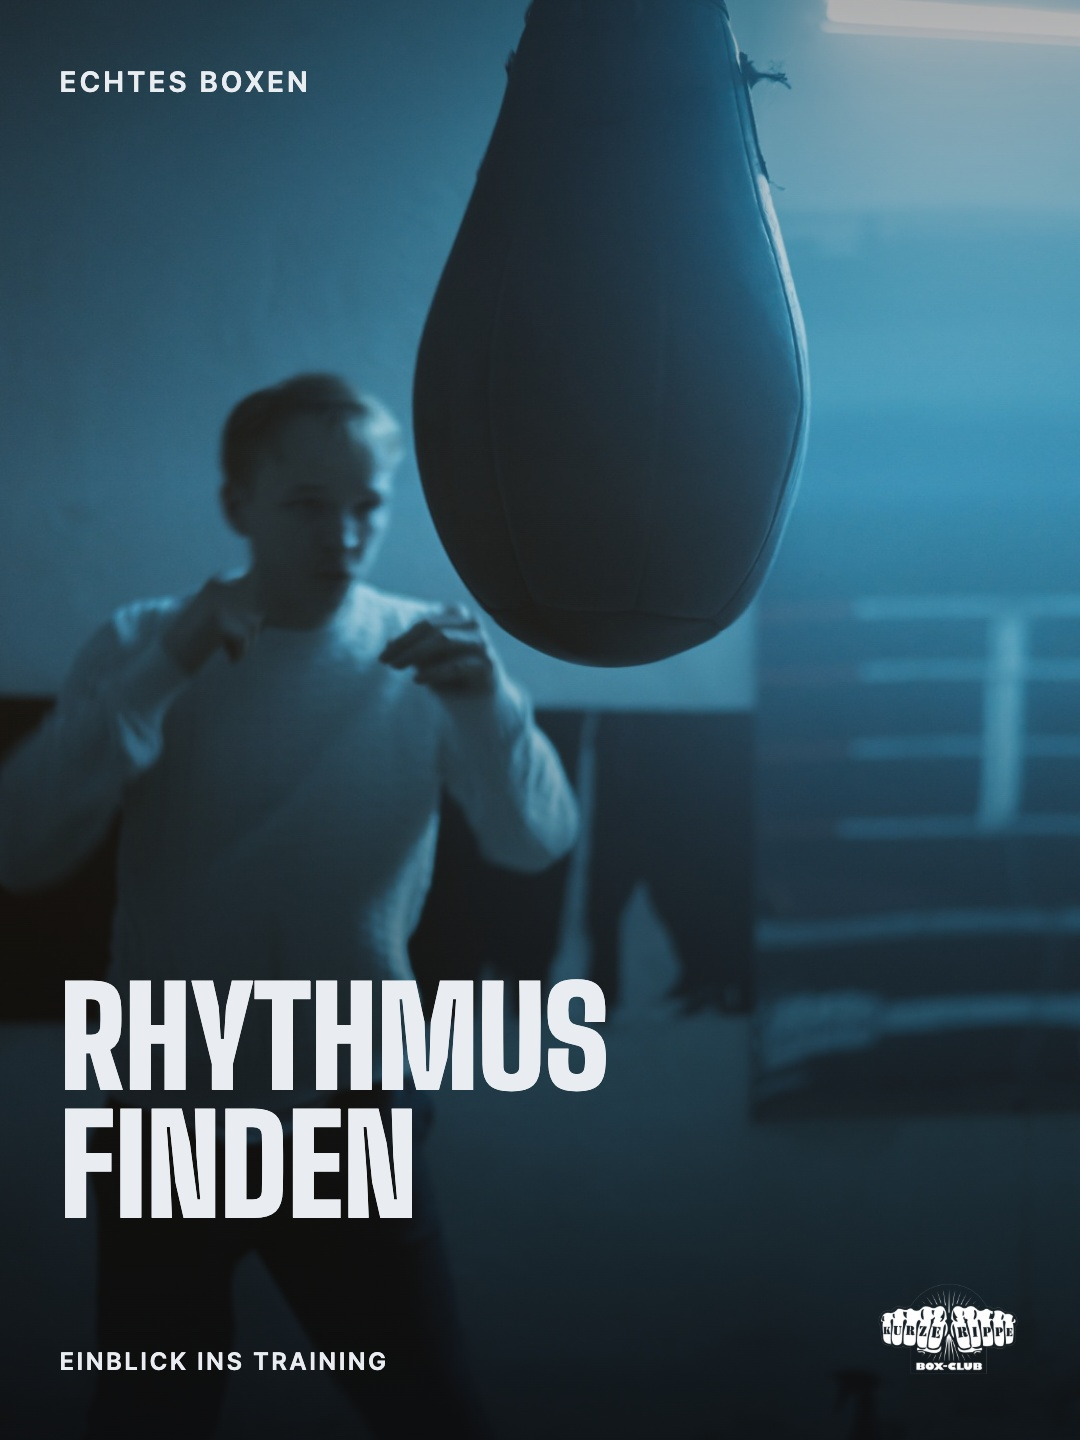
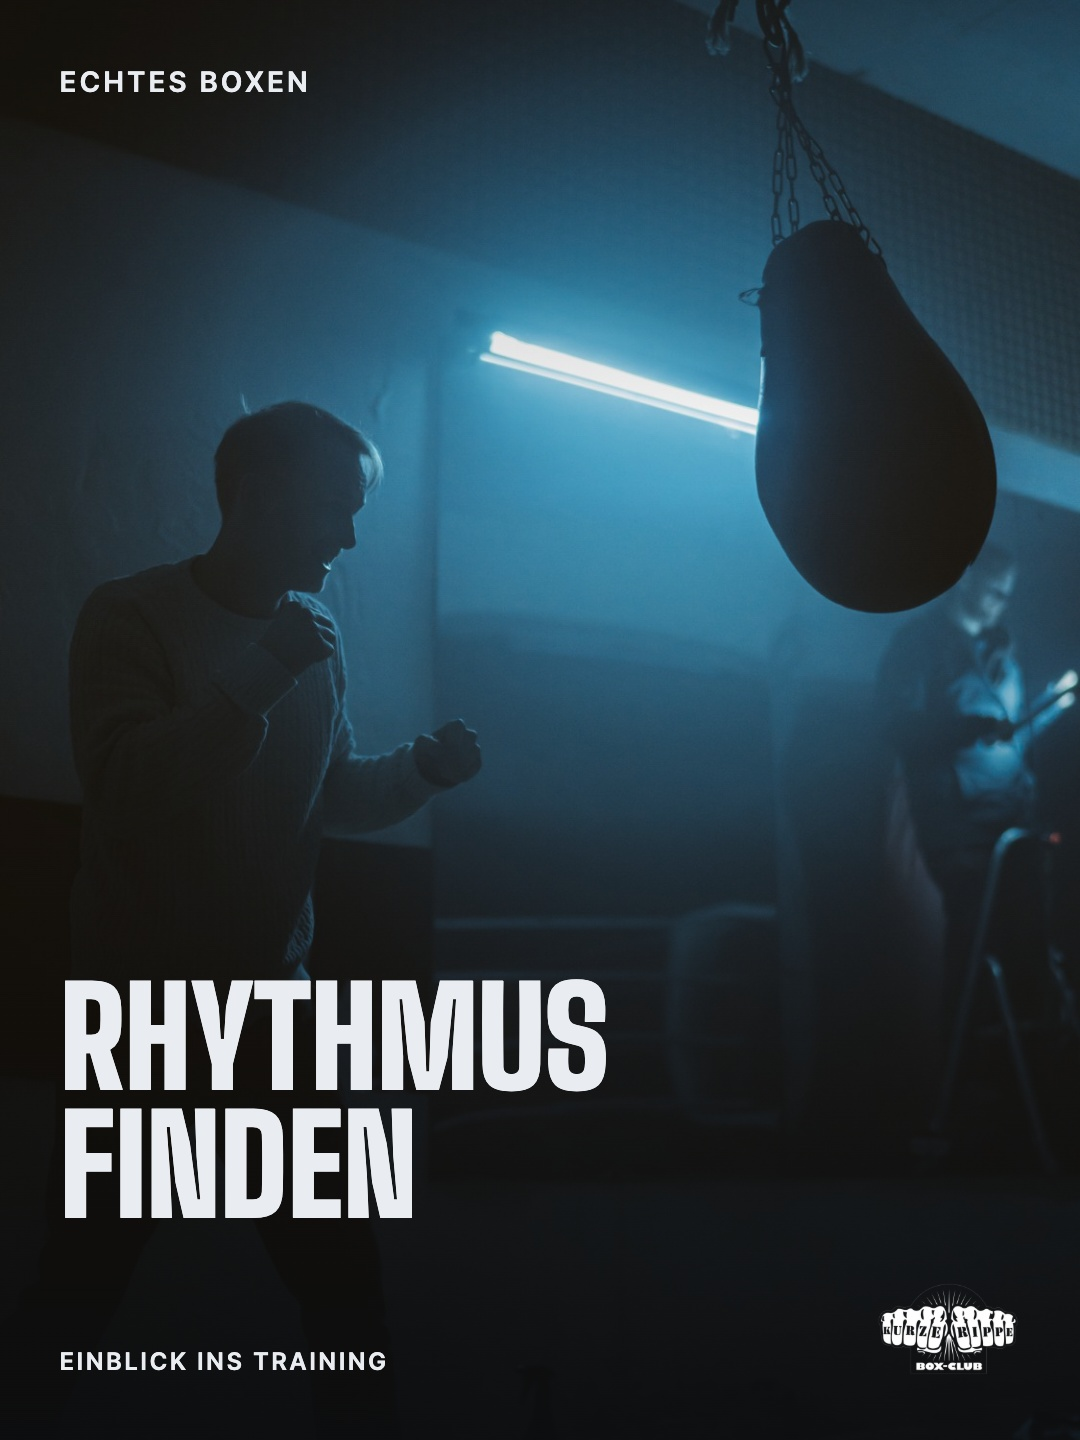
kurze-rippe: Grid-Bildauswahl mit Rot und Umkleide

diff --git a/kurze-rippe/arbeit/instagram-grid-v1/grid.html b/kurze-rippe/arbeit/instagram-grid-v1/grid.html
@@ -2,7 +2,7 @@
 <html lang="de">
 <head>
 <meta charset="utf-8">
-<title>Kurze Rippe · Instagram Grid · Entwurf 01</title>
+<title>Kurze Rippe · Instagram Grid · Entwurf 02</title>
 <style>
 @font-face{font-family:Stencil;src:url('assets/fonts/stencil0.ttf');font-weight:900}
 @font-face{font-family:Display;src:url('assets/fonts/display0.ttf');font-weight:900}
@@ -25,11 +25,11 @@ body{font-family:Inter,Arial,sans-serif}
 .entry .headline{top:152px;font-size:125px;line-height:.94}
 .entry .subline{position:absolute;left:32px;bottom:115px;font-size:23px;line-height:1.35}
 .detail .photo{object-position:53% center}.detail .small-title{bottom:107px}
-.technique .photo{object-position:center 29%}.technique .headline{font-size:104px}
+.technique .photo{object-position:center 45%}.technique .headline{font-size:104px}
 .brand .headline{top:147px;font-size:125px;line-height:.96;color:var(--light);white-space:nowrap}
 .brand .brand-word{position:absolute;left:32px;bottom:107px;margin:0;font:900 46px/.9 Display,sans-serif;letter-spacing:1px}
-.training .photo{object-position:51% center}.training .small-title{font-size:68px}
-.gym .photo{object-position:49% center}.gym .headline{font-size:102px}
+.training .photo{object-position:46% center}.training .small-title{font-size:68px}
+.gym .photo{object-position:50% center}.gym .headline{font-size:102px}
 .ring .photo{object-position:50% center}.ring .headline{top:108px;bottom:auto;font-size:108px}
 .relaunch .headline{top:155px;font-size:114px;line-height:.95}
 .relaunch .foot{font-size:16px;line-height:1.6;letter-spacing:1px}
@@ -56,7 +56,7 @@ body{font-family:Inter,Arial,sans-serif}
   <div class="foot">Ein Blick ins Detail</div><img class="corner" src="assets/logo.png" alt="Kurze Rippe">
  </article>
  <article class="post technique" data-id="04-boxen">
-  <img class="photo" src="assets/KR-146.jpg" alt="Boxer mit erhobenen Händen im Ring"><div class="shade"></div>
+  <img class="photo" src="assets/KR-135.jpg" alt="Boxer mit Handschuhen im rot beleuchteten Ring"><div class="shade"></div>
   <div class="eyebrow">Echtes Boxen</div><h2 class="headline bottom">Deckung<br>hoch</h2>
   <div class="foot">Technik im Fokus</div><img class="corner" src="assets/logo.png" alt="Kurze Rippe">
  </article>
@@ -66,12 +66,12 @@ body{font-family:Inter,Arial,sans-serif}
   <div class="foot">Boxen verbindet</div><img class="corner" src="assets/logo.png" alt="Kurze Rippe">
  </article>
  <article class="post training" data-id="06-training">
-  <img class="photo" src="assets/KR-231.jpg" alt="Training an der Boxbirne"><div class="shade"></div>
+  <img class="photo" src="assets/KR-256.jpg" alt="Training an der Boxbirne im blauen Licht"><div class="shade"></div>
   <div class="eyebrow">Echtes Boxen</div><h2 class="small-title">Rhythmus<br>finden</h2>
   <div class="foot">Einblick ins Training</div><img class="corner" src="assets/logo.png" alt="Kurze Rippe">
  </article>
  <article class="post gym" data-id="07-club">
-  <img class="photo" src="assets/KR-1.jpg" alt="Blick in den Boxclub"><div class="shade"></div>
+  <img class="photo" src="assets/KR-6.jpg" alt="Blick in die Umkleide mit Spinden und Sitzbank"><div class="shade"></div>
   <div class="eyebrow">Kult &amp; Old School</div><h2 class="headline bottom">Boxen<br>in Köln</h2>
   <div class="foot">Zu Hause im Gym</div><img class="corner" src="assets/logo.png" alt="Kurze Rippe">
  </article>

diff --git a/kurze-rippe/HANDOFF.md b/kurze-rippe/HANDOFF.md
@@ -1,8 +1,10 @@
 # HANDOFF: Kurze Rippe
 
-Zuletzt aktualisiert: 2026-11-23 (Instagram-Grid als zusätzliche Folie) von Codex.
+Zuletzt aktualisiert: 2026-11-23 (Instagram-Grid mit neuer Bildauswahl) von Codex.
 
 ## Stand
+
+- [x] 23.11. Grid Entwurf 02: Auf Marcs Wunsch drei Motive ausgetauscht. Deckung hoch → rotes Ringfoto KR-135, Rhythmus finden → KR-256, Boxen in Köln → Umkleide KR-6. Folie 6, Gesamtansicht, Einzelmotive und Vorlagen aktualisiert. Typografie und übriges Raster bleiben erhalten.
 
 - [x] 23.11. Instagram-Grid Entwurf 01 aus Marcs Lightroom-Ordner: 343 Dateien gesichtet, sechs Motive ausgewählt, 3×3-Raster mit sechs Foto- und drei Typografie-Posts gestaltet. Website-Schriften und Blau übernommen. Als neue Folie 6 nach den Säulen ergänzt, Präsentation jetzt 15 Folien. Quellen, Einzelmotive und Vorschauen → `arbeit/instagram-grid-v1/`.
 - [ ] Marc prüft den Grid-Look. Aktuelle Trainerporträts, Aussagen und konkrete Informationsbeiträge brauchen weiterhin gezielte neue Aufnahmen und bestätigte Fakten.

diff --git a/kurze-rippe/context/entscheidungen.md b/kurze-rippe/context/entscheidungen.md
@@ -2,6 +2,11 @@
 
 Neueste oben. Format: Datum, Entscheidung, Grund.
 
+## 2026-11-23: Drei Grid-Motive durch angehängte Bilder ersetzen
+
+**Wunsch (Marc):** Die Bilder bei „Rhythmus finden“, „Deckung hoch“ und „Boxen in Köln“ austauschen, dabei gerne ein rotes Motiv und die Umkleide verwenden.
+**Umsetzung:** KR-135 für „Deckung hoch“, KR-256 für „Rhythmus finden“, KR-6 für „Boxen in Köln“. Typografie und Grundlayout bleiben erhalten. Blau bleibt die gestalterische Basis, die Originalfarben der neuen Fotos ergänzen Rot und warme Brauntöne. Grid und Folie 6 gemeinsam aktualisiert.
+
 ## 2026-11-23: Instagram-Grid als Gestaltungsentwurf
 
 **Auftrag (Marc):** Den Lightroom-Ordner erneut sichten, die geplante Social-Media-Arbeit mit einem Instagram-Grid visualisieren und dieses als Folie in die Präsentation einfügen. Kurz Typografie und Layout vorschlagen.
